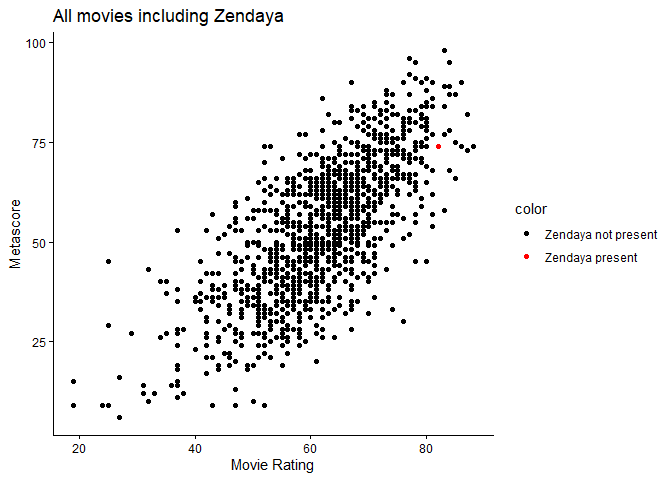
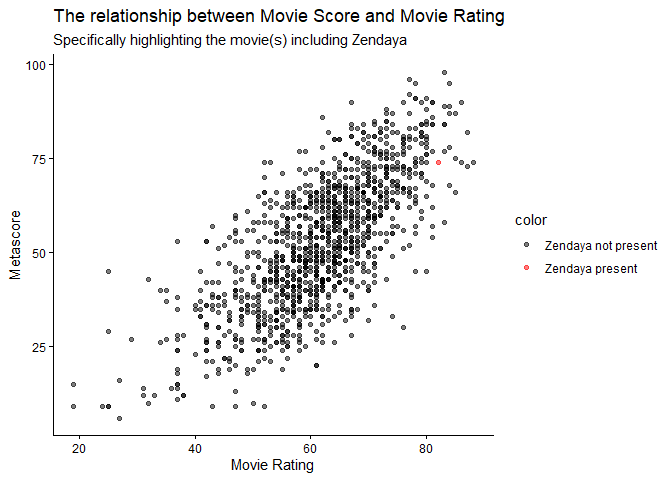
changes that martin suggested

diff --git a/Projects/Jannis-DW/Chaoicci.md b/Projects/Jannis-DW/Chaoicci.md
@@ -102,6 +102,7 @@ directors with the most movies).
 ![](Chaoicci_files/figure-markdown_strict/plot-with-actor-1.png)
 
 ![](Chaoicci_files/figure-markdown_strict/plot-rating-and-money-1.png)
+
 This plot is a bit harder to interpret. There seems to be some
 (positive) correlation, however, most movies didn’t make that much money
 compared to the other movies.